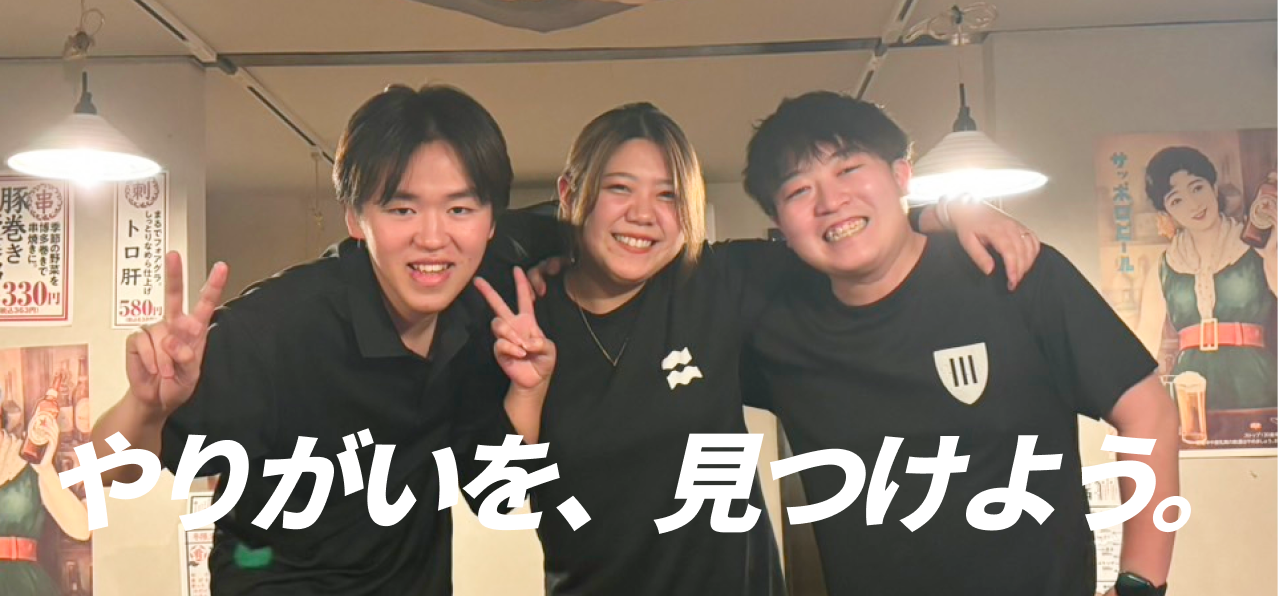
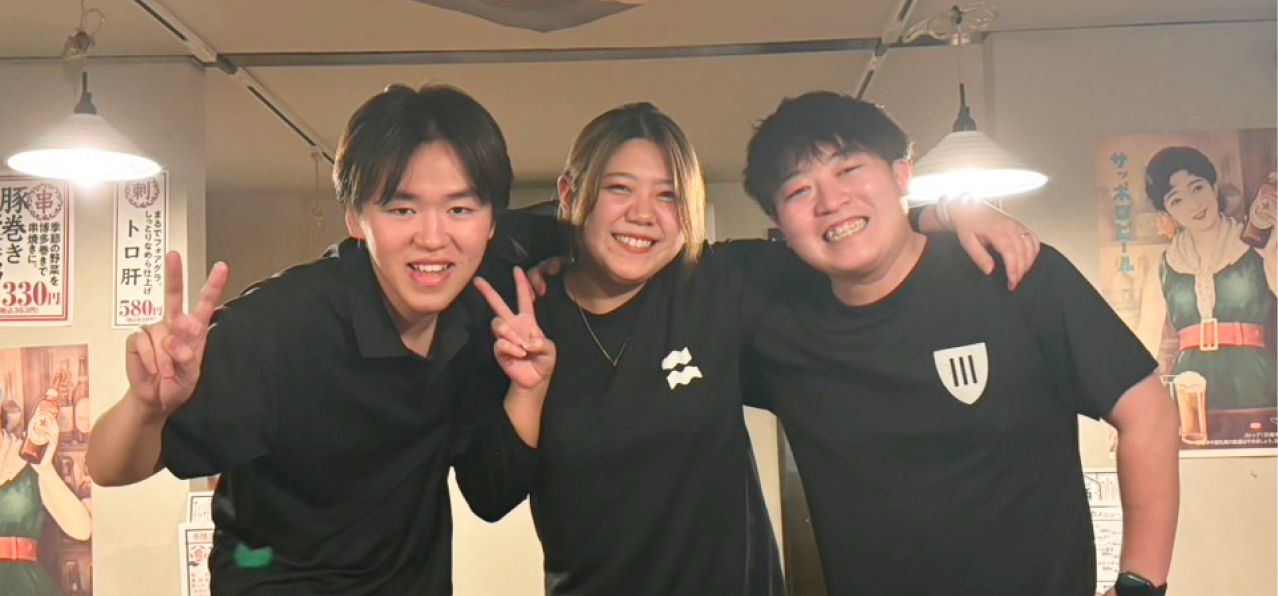
update/公開側のトップ画面のデザイン変更と、元のデザインのエラーを変更

diff --git a/app/frontend/entrypoints/public.scss b/app/frontend/entrypoints/public.scss
@@ -355,7 +355,7 @@ ul {
 @media screen and (max-width: 767px) {
   .form-content {
     max-width: none;
-    margin: 20px 32px;
+    margin: 20px 20px;
   }
 
   .form-box {
@@ -756,7 +756,7 @@ ul {
 @media screen and (max-width: 767px) {
   .footer-content-box {
     max-width: none !important;
-    margin: 0 32px;
+    margin: 0 20px;
   }
 
   .footer-content-box2 {
@@ -1076,8 +1076,19 @@ ul {
   }
 }
 
-.top-img {
+.home-top-img-wrap {
   width: 100%;
+  height: 596px;
+  background-image: url('/assets/home/top.png');
+  background-size: 100% 100%;
+  display: grid;
+  justify-content: center;
+}
+
+.home-top-title-img {
+  width: 890px;
+  text-align: center;
+  margin-top: 330px;
 }
 
 .home-about-us-wrap .user-btn::after,
@@ -1110,9 +1121,21 @@ ul {
 
 
 @media screen and (max-width: 767px) {
+  .home-top-img-wrap {
+    height: auto;
+    background-image: url('/assets/home/top-sp.png');
+  }
+  
+  .home-top-title-img {
+    width: 380px;
+    text-align: center;
+    margin-top: 240px;
+    margin-bottom: 60px;
+  }
+
   .home-content-box {
     max-width: none !important;
-    margin: 0 32px;
+    margin: 0 20px;
   }
 }
 
@@ -1123,15 +1146,16 @@ ul {
 .home-about-us-wrap {
   width: 100%;
   background-color: #FFF7E3;
+  padding-bottom: 40px;
 }
 
-.about-us-content-box {
-  padding-top: 182px;
-  padding-bottom: 178px;
+.about-us-content {
+  padding-top: 180px;
+  padding-bottom: 60px;
 }
 
 @media screen and (max-width: 767px) {
-  .about-us-content-box {
+  .about-us-content {
     padding: 40px 0;
   }
 }
@@ -1186,11 +1210,97 @@ ul {
   }
 }
 
+.home-premium-content {
+  background-color: #D32600;
+  border-radius: 10px;
+  padding: 5px 5px 30px;
+}
+
+.home-premium-title-box {
+  padding: 15px 0;
+  background-color: #FFFFFF;
+  font-weight: 900;
+  text-align: center;
+}
+
+.home-premium-subtitle {
+  font-size: 28px;
+  letter-spacing: 15%;
+  color: #000000;
+}
+
+.home-premium-title {
+  font-size: 40px;
+  letter-spacing: 15%;
+  color: #D32600;
+}
+
+.home-premium-info {
+  padding: 20px 100px 0;
+}
+
+.home-premium-text {
+  font-size: 18px;
+  color: #FFFFFF;
+  line-height: 37px;
+  padding-bottom: 25px;
+}
+
+.home-premium-link {
+  display: flex;
+  justify-content: center;
+}
+
+@media screen and (max-width: 767px) {
+  .home-premium-content {
+    background-color: #D32600;
+    border-radius: 10px;
+    padding: 5px 5px 30px;
+  }
+  
+  .home-premium-title-box {
+    padding: 10px 0;
+  }
+  
+  .home-premium-subtitle {
+    font-size: 16px;
+    letter-spacing: 15%;
+    color: #000000;
+  }
+  
+  .home-premium-title {
+    font-size: 28px;
+    letter-spacing: 15%;
+    color: #D32600;
+  }
+  
+  .home-premium-info {
+    padding: 10px 20px 0;
+  }
+  
+  .home-premium-text {
+    font-size: 18px;
+    color: #FFFFFF;
+    line-height: 37px;
+    padding-bottom: 25px;
+  }
+  
+  .home-premium-link {
+    display: flex;
+    justify-content: center;
+  }
+}
+
 @media screen and (max-width: 767px) {
   .sm-img {
-    max-width: 100%;
+    width: 100%;
     height: auto;
   }
+}
+
+.sm-max-img {
+  max-width: 100%;
+  height: auto;
 }
 
 .form-fix-btn {
@@ -1243,6 +1353,8 @@ ul {
 @media screen and (max-width: 767px) {
   .home-restaurant-wrap {
     padding: 40px 0;
+    background-size: 100% auto;
+    background-image: url('/assets/home/restaurant-sp.png');
   }
 }
 
@@ -1261,12 +1373,6 @@ ul {
 
 .restaurant-title {
   text-align: center;
-}
-
-@media screen and (max-width: 767px) {
-  .restaurant-title {
-    padding-top: 40px;
-  }
 }
 
 .restaurant-title-img {
@@ -1370,7 +1476,8 @@ ul {
   padding: 20px 0px 45px;
 }
 
-.carrer-btn {
+.carrer-btn,
+.home-premium-btn {
   width: 280px;
   height: 60px;
   background-color: #FFFFFF;
@@ -1427,7 +1534,7 @@ ul {
 @media screen and (max-width: 767px) {
   .tab_container {
     max-width: none !important;
-    margin: 0 32px;
+    margin: 0 20px;
   }
 }
 
@@ -1675,7 +1782,7 @@ input[name="tab_item"] {
 
   .lbr-dream-content {
     max-width: none;
-    margin: 0 32px;
+    margin: 0 20px;
   }
 
   .dream-title-img {
@@ -1788,7 +1895,7 @@ input[name="tab_item"] {
 
   .lbr-merit-content-box {
     max-width: none !important;
-    margin: 0 32px;
+    margin: 0 20px;
   }
 
   .merit-title-img {
@@ -1914,7 +2021,7 @@ input[name="tab_item"] {
 
   .owner-message-content {
     max-width: none;
-    margin: 0 32px;
+    margin: 0 20px;
   }
 
   .owner-message-title {
@@ -1978,7 +2085,7 @@ input[name="tab_item"] {
 
   .interview-content {
     max-width: none !important;
-    margin: 0 32px;
+    margin: 0 20px;
   }
 
   .interview-card-box {
@@ -2171,7 +2278,7 @@ input[name="tab_item"] {
   .staff-interview-content2,
   .staff-interview-content3,
   .staff-interview-content4 {
-    padding: 0 32px;
+    padding: 0 20px;
   }
 
   .staff-interview-content1,
@@ -2255,7 +2362,7 @@ input[name="tab_item"] {
 @media screen and (max-width: 767px) {
   .company-content {
     max-width: none !important;
-    margin: 40px 32px;
+    margin: 40px 20px;
     font-size: 14px;
   }
 
@@ -2571,6 +2678,7 @@ input[name="tab_item"] {
   width: 100%;
   height: auto;
   margin-bottom: 14px;
+  text-align: center;
 }
 
 
@@ -2610,7 +2718,7 @@ input[name="tab_item"] {
 @media screen and (max-width: 767px) {
   .shop-content-box {
     max-width: none !important;
-    margin: 0 32px 15px;
+    margin: 0 20px 15px;
   }
 }
 
@@ -2962,7 +3070,7 @@ input[name="tab_item"] {
   .job-system-content,
   .job-entry-content {
     max-width: none;
-    margin: 0 32px;
+    margin: 0 20px;
   }
 
   .job-profile-title,
